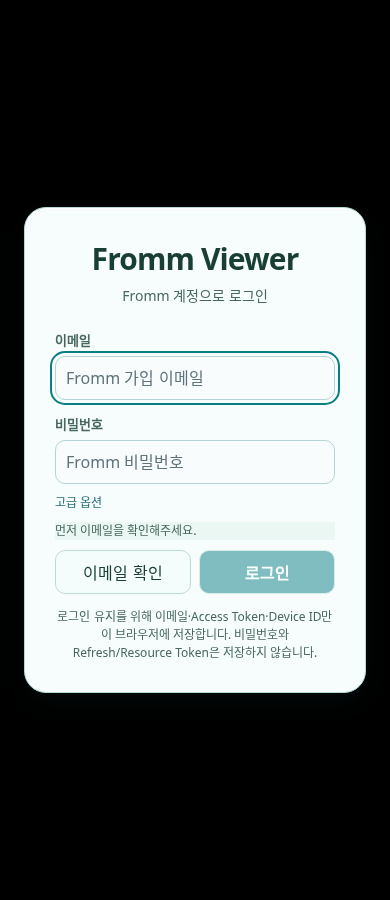
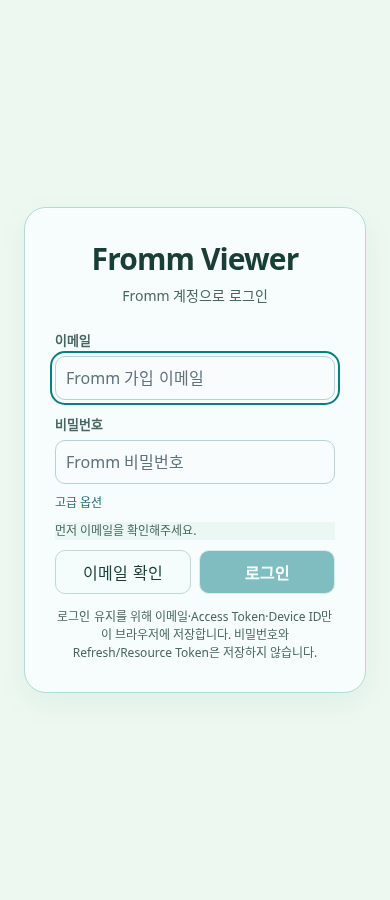
fix: match login background to existing Glow ME mint palette

diff --git a/index.html b/index.html
@@ -13,11 +13,13 @@
 <link rel="icon" type="image/png" sizes="32x32" href="assets/glowme/favicon-32.png">
 <style>
 /* Before any external assets: never paint the login form during session restore. */
-.glowme.login-screen{overflow:hidden;scrollbar-gutter:auto;background:#000}
-#loginGate{overflow-y:auto;align-items:safe center;background:#000;backdrop-filter:none}
+.glowme{--login-bg:#edf8f0}
+@media(min-width:701px) and (hover:hover) and (pointer:fine){.glowme{--login-bg:#f0f8f3}}
+.glowme.login-screen{overflow:hidden;scrollbar-gutter:auto;background:var(--login-bg)}
+#loginGate{overflow-y:auto;align-items:safe center;background:var(--login-bg);backdrop-filter:none}
 .auth-pending #loginGate .login-panel{visibility:hidden}
 .login-startup-status{display:none}
-.auth-pending .login-startup-status{display:block;position:absolute;color:#c9d8d2;font:14px/1.5 system-ui}
+.auth-pending .login-startup-status{display:block;position:absolute;color:#48675e;font:14px/1.5 system-ui}
 :root { --bg: #0f1115; --panel: #171a21; --panel2: #1e222b; --text: #f5f6f8; --muted: #9da6b5; --line: #2a303b; --accent: #ff5b73; --accent2: #ff8798; --ok: #69d59a; --warn: #ffcb6b; }
 * { box-sizing: border-box; }
 button, input, textarea, select { font: inherit; }
@@ -354,7 +356,7 @@ a.dl { color: rgb(255, 255, 255); text-decoration: none; background: rgb(48, 55,
 .auth-advanced-toggle:hover { color: rgb(199, 215, 239); }
 .auth-advanced { margin-top: 8px; padding: 10px; border: 1px solid var(--line); border-radius: 10px; background: rgb(15, 20, 27); }
 #loginBtn:disabled, #checkEmailBtn:disabled { opacity: 0.5; cursor: not-allowed; }
-.login-gate { position: fixed; inset: 0px; z-index: 2000; display: flex; align-items: center; justify-content: center; padding: 24px; background: #000; }
+.login-gate { position: fixed; inset: 0px; z-index: 2000; display: flex; align-items: center; justify-content: center; padding: 24px; background: var(--login-bg,#edf8f0); }
 .login-gate.hidden { display: none; }
 .login-panel { width: min(520px, -36px + 100vw); padding: 30px; border: 1px solid rgb(45, 52, 64); border-radius: 22px; background: rgb(23, 29, 39); box-shadow: rgba(0, 0, 0, 0.5) 0px 28px 90px; }
 .login-brand { text-align: center; font-size: 30px; font-weight: 900; letter-spacing: -0.03em; }

diff --git a/glowme.css b/glowme.css
@@ -117,7 +117,7 @@
 .glowme .live-card {box-shadow:var(--glow-shadow);}
 .glowme .replay-page-head {background:#edf9f7;border-color:var(--line);}
 .glowme .replay-page-title {color:var(--text);}
-.glowme .login-gate {background:#000;backdrop-filter:none;}
+.glowme .login-gate {background:var(--login-bg,#edf8f0);backdrop-filter:none;}
 .glowme .save-result-modal {background:#163d4655;backdrop-filter:blur(7px);}
 .glowme :is(.login-panel,.save-result-card,.vote-dialog) {background:#f7fdfc;color:var(--text);border-color:#b1dcd6;box-shadow:var(--glow-shadow);}
 .glowme :is(.login-panel label,.login-subtitle) {color:var(--muted);}

diff --git a/docs/LOGIN_STARTUP_HANDOFF.md b/docs/LOGIN_STARTUP_HANDOFF.md
@@ -1,14 +1,16 @@
-# 로그인 검은 배경·초기 깜빡임 수정
+# 로그인 민트 배경·초기 깜빡임 수정
 
-- Branch: `fix/login-black-startup`, worktree `/workspace/fromm-viewer-login-startup`. Base main `fc4d3f59e6f44b7575171a6d03340b73597b70f4` (PR64 배포 후). 현재 저장 SHA는 `git log -1 --format=%H`로 확인한다. Draft PR은 `gh pr view fix/login-black-startup --repo fffdsaw/fromm-viewer`로 조회하며, 생성 후 PR 설명에 체크포인트·최신 CI를 기록한다.
-- 요청: 로그인은 완전히 검은 배경, 저장된 로그인 복원/새로고침 중 입력창 깜빡임 제거. 공통 로그인 화면에만 적용한다. 로그인 후 PC/모바일 배치, 캡슐·헤더는 미변경.
+- Branch: `fix/login-black-startup`, worktree `/workspace/fromm-viewer-login-startup`. Base main `fc4d3f59e6f44b7575171a6d03340b73597b70f4` (PR64 배포 후). 현재 저장 SHA는 `git log -1 --format=%H`로 확인한다. Draft PR [#65](https://github.com/fffdsaw/fromm-viewer/pull/65). PR 설명에 체크포인트·최신 CI를 기록한다.
+- 요청: 사용자 최종 수정: 로그인 배경도 현재 웹의 옅은 민트색, 저장된 로그인 복원/새로고침 중 입력창 깜빡임 제거. 공통 로그인 화면에만 적용한다. 로그인 후 PC/모바일 배치, 캡슐·헤더는 미변경.
 - 원인: 초기 HTML에 로그인 입력창이 기본 노출되고 기존 `connectSavedAuth()`의 비동기 방 조회가 끝난 후에야 숨겨졌다.
-- `index.html`: 첫 페인트 전 `auth-pending`으로 입력창을 가린 검은 확인 화면. 기존 show/hide 함수에서 표시 상태만 정리한다. `login-screen` 동안 배경 스크롤 잠금; 낮은 화면에서는 로그인 영역 자체가 스크롤된다. 토큰 읽기/유효시간/복원/요청/재시도/저장/암호화/로그아웃 로직 미변경. 줄바꿈 혼합 파일은 bytes 치환으로 최소 변경했다.
-- `glowme.css`: 로그인 배경만 불투명 검정으로 분리. 저장 결과 모달 스타일 미변경.
+- `index.html`: 첫 페인트 전 `auth-pending`으로 입력창을 가린 민트 확인 화면. 기존 show/hide 함수에서 표시 상태만 정리한다. `login-screen` 동안 배경 스크롤 잠금; 낮은 화면에서는 로그인 영역 자체가 스크롤된다. 토큰 읽기/유효시간/복원/요청/재시도/저장/암호화/로그아웃 로직 미변경. 줄바꿈 혼합 파일은 bytes 치환으로 최소 변경했다.
+- `glowme.css`: 로그인 배경만 현재 웹과 같은 불투명 민트(PC #f0f8f3/기존 좁은 화면 #edf8f0)으로 분리. 저장 결과 모달 스타일 미변경.
 - `web-ui-a11y.js`: visibility:hidden 입력창을 초점 후보에서 제외. 확인 중에는 gate에 초점을 두고 재로그인이 필요해지면 이메일로 이동. 기존 inert·초점 트랩·복귀 유지.
-- `test/login-startup.browser.cjs`: 합성 저장값/API로 신규/정상 저장/실제 reload/401/만료/503/구형 키/저장소 차단을 확인. 정상 복원 중 및 완료 후 requestAnimationFrame에서 입력창 표시 프레임0. 확인 중 배경 inert·Tab·검정, 오류 시 이메일 초점, 844×390 짧은 화면 조작 접근, 390px 민트 스크롤 띠 없음 통과. 테스트를 기존 Channel CI에 추가했다.
+- `test/login-startup.browser.cjs`: 합성 저장값/API로 신규/정상 저장/실제 reload/401/만료/503/구형 키/저장소 차단을 확인. 정상 복원 중 및 완료 후 requestAnimationFrame에서 입력창 표시 프레임0. 확인 중 배경 inert·Tab·민트, 오류 시 이메일 초점, 844×390 짧은 화면 조작 접근, 390px 배경 스크롤 띠 없음 통과. 테스트를 기존 Channel CI에 추가했다.
 - 로컬: 위 브라우저7경우 PASS. 기존 로그인 초점·인용 대비·axe 검사 PASS(위반0). Node281개 중280 PASS/0 FAIL/기존 Agora 타입 미설치 skip1. whitespace PASS. `/workspace/scratch/fromm-login-startup/` 로그 보존.
 - [로그인 화면](design-review/login-startup/login.png), [복원 확인 화면](design-review/login-startup/restoring.png): 실제 Chromium 촬영, 합성 자료만 사용. 실제 계정·토큰·개인 대화 저장 없음.
 - 알려진 로컬 실패 없음. 실제 계정 로그인/인증 서버, 물리 기기·OS 설치 PWA는 미검증. 전체 원격 CI 결과는 해당 PR Checks를 확인한다.
 - 이 수정에 대한 병합·배포 승인은 아직 없음. 이전 승인은 PR64에 적용됐으며, 버전 변경 및 새 수정의 main 병합·공개 배포를 하지 않는다.
 - 재개: `fix/login-black-startup의 Draft PR/Checks와 docs/LOGIN_STARTUP_HANDOFF.md를 읽고 마지막 커밋/작업 트리를 보존해 줘. 통과 검사를 불필요하게 반복하지 말고 남은 실제 CI 실패만 해결해 줘. 인증 로직 재작성, 승인 없는 병합·배포 금지.`
+
+- 색상 변경 체크포인트: 이전 20dd23f의 검정은 사용자 후속 지시로 폐기. 공통 웹 색상과 같은 민트로 보정하고 새 촬영/색상·초점 검사7가지 및 기존 a11y/axe 재검증 PASS. 이전 검정 코드의 원격 브라우저 실행은 사용자 수정에 따라 취소했고 새 체크포인트 CI로 대체한다. 로그인 복원/깜빡임 수정은 유지.
